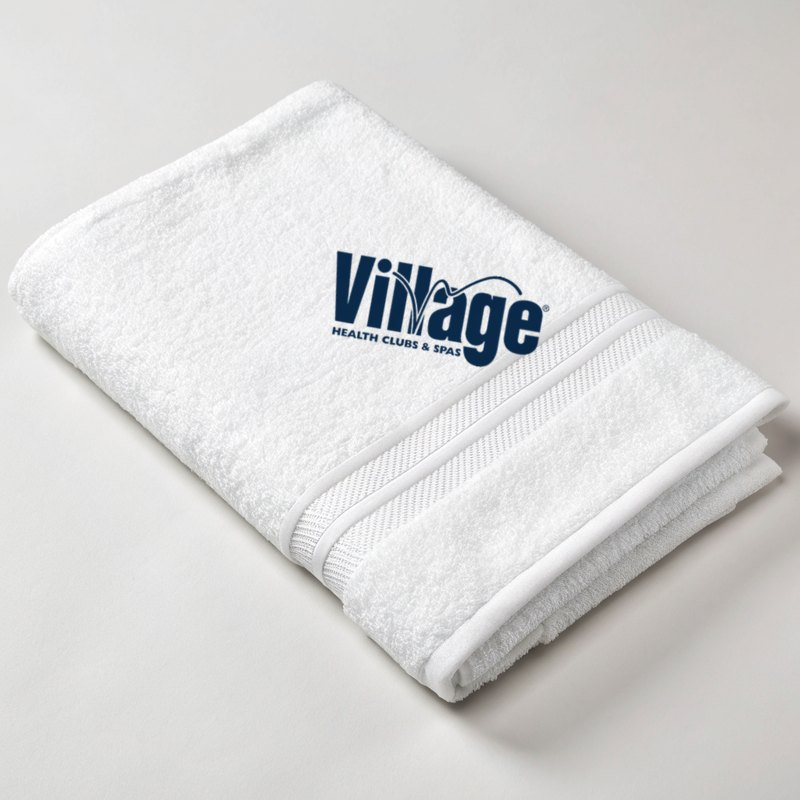
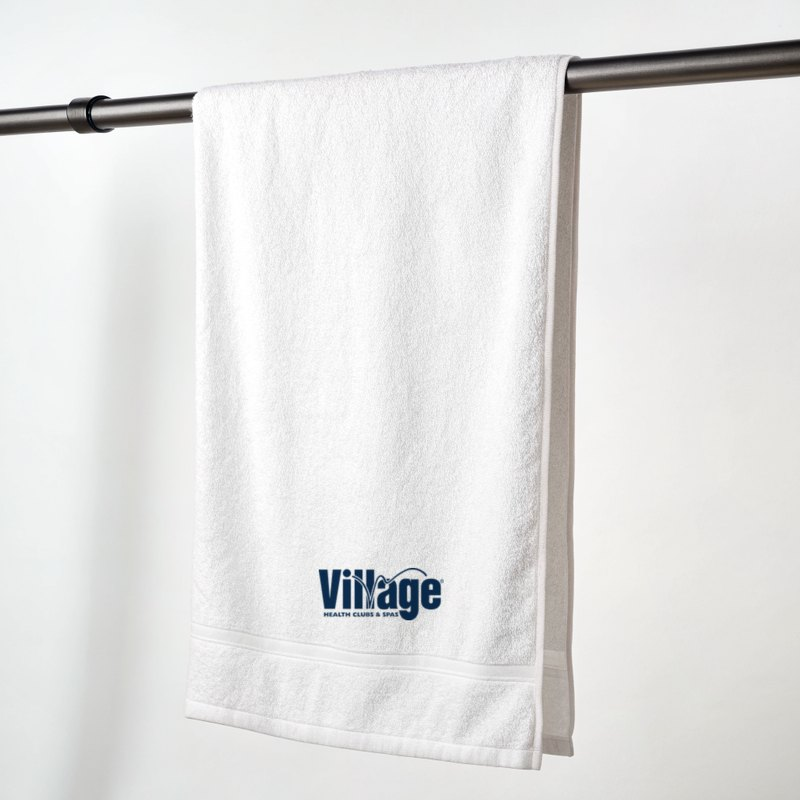
Tank: flat-lay heather, smaller mark; towel: hanging, embroidered above border

diff --git a/store.js b/store.js
@@ -4,9 +4,9 @@ const PRODUCTS = [
   bullets:["Soft 8 oz cotton-blend fleece","Kangaroo pocket, flat drawcords","Adult and youth sizing","Optional player name on the back"]},
  {id:"qzip", name:"Ocotillo Performance Quarter-Zip", img:"assets/qzip.jpg?v=4", color:"Navy", hex:"#1d2b4a", fit:"Men's & Ladies'", sizes:["XS","S","M","L","XL","2XL","3XL"], youth:false, personalize:true, tag:"Coach favorite",
   blurb:"Smooth-face stretch pullover with the Village mark embroidered on the left chest. The polished warm-up piece for pros, coaches, and league captains.", bullets:["Moisture-wicking stretch fabric","Embroidered, not printed","Men's and ladies' cuts","Optional name or title on the right chest"]},
- {id:"tank", name:"Ladies' Court Racerback Tank", img:"assets/tank.jpg?v=4", color:"White", hex:"#ffffff", fit:"Ladies'", sizes:["XS","S","M","L","XL","2XL"], youth:true, personalize:true, tag:"New",
+ {id:"tank", name:"Ladies' Court Racerback Tank", img:"assets/tank.jpg?v=6", color:"Heather Grey", hex:"#b8b8b8", fit:"Ladies'", sizes:["XS","S","M","L","XL","2XL"], youth:true, personalize:true, tag:"New",
   blurb:"Lightweight racerback with the Village lockup center chest. Made for Chandler match days, morning clinics, and everything after.", bullets:["Quick-dry performance knit","Racerback for full swing range","Ladies' and girls' sizing","Optional player name on the back"]},
- {id:"shorts", name:"Ocotillo Performance Shorts", img:"assets/shorts.jpg?v=5", color:"Navy", hex:"#1d2b4a", fit:"Men's & Boys'", sizes:["XS","S","M","L","XL","2XL"], youth:true, personalize:false,
+ {id:"shorts", name:"Ocotillo Performance Shorts", img:"assets/shorts.jpg?v=6", color:"Navy", hex:"#1d2b4a", fit:"Men's & Boys'", sizes:["XS","S","M","L","XL","2XL"], youth:true, personalize:false,
   blurb:"7-inch stretch woven short with zip pockets that hold a ball or a phone, and the Village mark on the left leg.", bullets:["Four-way stretch, quick-dry","Zip side pockets","Men's and boys' sizing"]},
  {id:"polo", name:"Ocotillo Court Polo", img:"assets/polo.jpg?v=4", color:"White", hex:"#ffffff", fit:"Men's & Ladies'", sizes:["XS","S","M","L","XL","2XL","3XL"], youth:false, personalize:false,
   blurb:"Lightweight performance polo with the Village mark embroidered on the left chest. Court-ready, and clean enough for the clubhouse after.", bullets:["Snag-resistant performance knit","UPF sun protection","Men's and ladies' cuts"]},
@@ -14,7 +14,7 @@ const PRODUCTS = [
   blurb:"Lightweight tri-blend tee with the Village lockup center chest. Built for match days and junior clinics alike.", bullets:["Breathable, quick-dry blend","Retail fit, tagless","Adult and youth sizing","Optional player name on the back"]},
  {id:"visor", name:"Village Tennis Visor", img:"assets/visor.jpg?v=4", color:"Navy", hex:"#1d2b4a", fit:"One size", sizes:["One size"], youth:false, personalize:false, tag:"New",
   blurb:"Classic court visor with the Village wordmark embroidered across the front band. Sun off your face, hair free, nothing in the way of the serve.", bullets:["Embroidered front band","Sweat-wicking inner band","Adjustable closure, adult and youth"]},
- {id:"towel", name:"Ocotillo Court Towel", img:"assets/towel.jpg?v=4", color:"White", hex:"#ffffff", fit:"16 x 26 in", sizes:["One size"], youth:false, personalize:true,
+ {id:"towel", name:"Ocotillo Court Towel", img:"assets/towel.jpg?v=6", color:"White", hex:"#ffffff", fit:"16 x 26 in", sizes:["One size"], youth:false, personalize:true,
   blurb:"Plush cotton court towel with the Village lockup embroidered in navy. The bench essential in a Chandler summer.", bullets:["100% cotton terry","Embroidered, wash after wash","Optional player name below the logo"]},
  {id:"crew", name:"Village Crewneck Sweatshirt", img:"assets/crew.jpg?v=4", color:"Heather Grey", hex:"#b8b8b8", fit:"Unisex", sizes:["XS","S","M","L","XL","2XL","3XL"], youth:true, personalize:true,
   blurb:"Classic crew with the full Village lockup in navy. Layers over a polo on cold court mornings.", bullets:["Ribbed cuffs and hem","Pre-shrunk, holds its shape","Adult and youth sizing"]},
